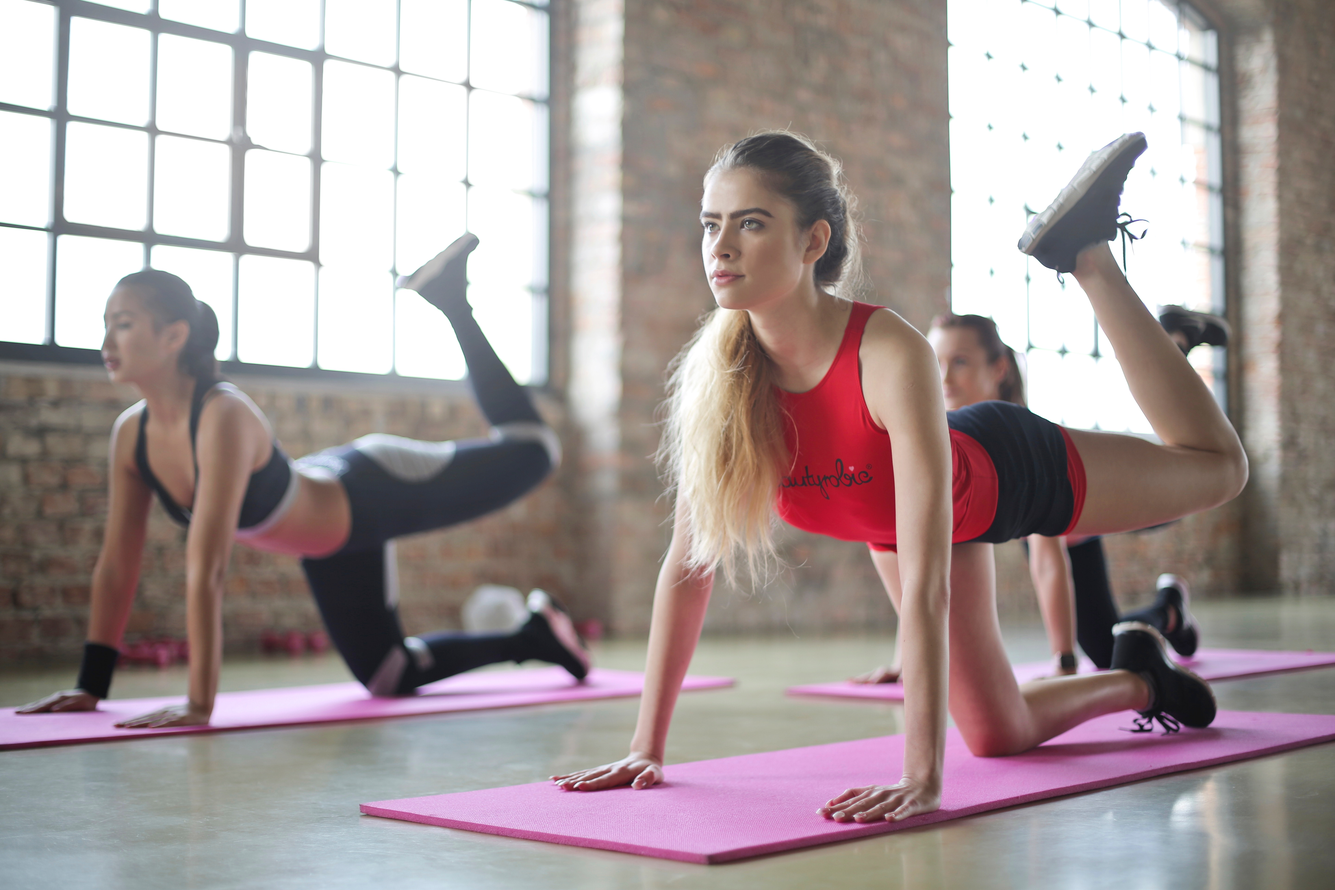
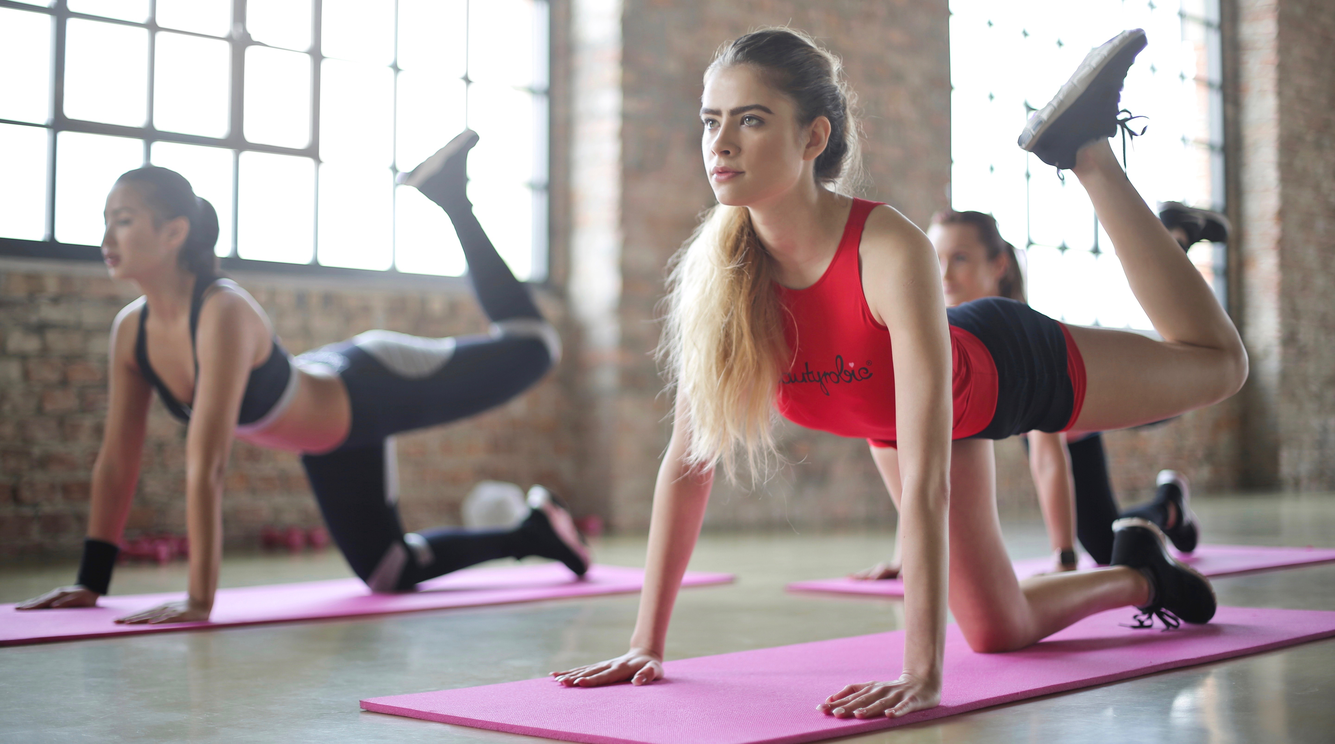
added styling with a navbar and jumbotron with pictures and a google font

diff --git a/index.html b/index.html
@@ -9,26 +9,35 @@
     <link rel="stylesheet" href="https://maxcdn.bootstrapcdn.com/bootstrap/4.0.0/css/bootstrap.min.css">
     <!--Custom css-->
     <link rel="stylesheet" type="text/css" href="assets/css/style.css">
+    <!--Google Font-->
+    <link href="https://fonts.googleapis.com/css?family=Open+Sans:600" rel="stylesheet">
 
     <meta name="viewport" content="width=device-width, initial-scale=1.0, shrink-to-fit=no">
 </head>
 
 <body>
     <!--Navbar with logo-->
-    <nav class="navbar">
-            <a class="navbar-brand" href="#">
-                <img id="logoImg" src="assets/images/completeWellnessLogo.png" alt="webpage logo">
-            </a>   
-    </nav>
-
+    <nav class="navbar navbar-expand-lg">
+            <a class="navbar-brand p-0" href="#"><img id="logoImg" src="assets/images/completeWellnessLogo.png" alt="webpage logo"></a>
+            <button class="navbar-toggler" type="button" data-toggle="collapse" data-target="#navbarNavAltMarkup" aria-controls="navbarNavAltMarkup" aria-expanded="false" aria-label="Toggle navigation">
+              <span class="navbar-toggler-icon"></span>
+            </button>
+            <div class="collapse navbar-collapse" id="navbarNavAltMarkup">
+              <div class="navbar-nav ml-auto mr-4">
+                <a class="nav-item nav-link active text-light" href="#">Join / Log In<span class="sr-only">(current)</span></a>
+                
+              </div>
+            </div>
+          </nav>
+    
 
     <!--Jumbotron-->
-    <div class="jumbotron" id="forJumbotronImage">
-        <div class="container">
-            <h1 class="display-4 text-dark">Accomplish All Your Wellness Goals</h1>
-            <p class="lead text-dark">Food. Recipes. Fitness</p>
+    <div class="jumbotron">
+        <div class="container-fluid" id="sloganBox">
+            <h1 class="display-5" id="slogan">WELLNESS MADE EASY</h1>
+            <p class="lead text-light px-1">Find everything you need to crush your next workout <br> and maximize your diet</p>
+        </div>
     </div>
-</div>
 
     <br>
     <div class="card-header bg-secondary text-dark" id="formCard">

diff --git a/assets/css/style.css b/assets/css/style.css
@@ -1,3 +1,18 @@
 .navbar {
     background: #000000;
 }
+.jumbotron  {
+    background-image: url(../images/girlsInClass.jpg);
+    background-size: cover;
+    
+}
+
+#slogan {
+    font-family: 'Open Sans', sans-serif;
+    margin-top: 27%;
+    color: rgba(255, 255, 255, 1);
+}
+
+#sloganBox {
+    margin-bottom: -40px;
+}
